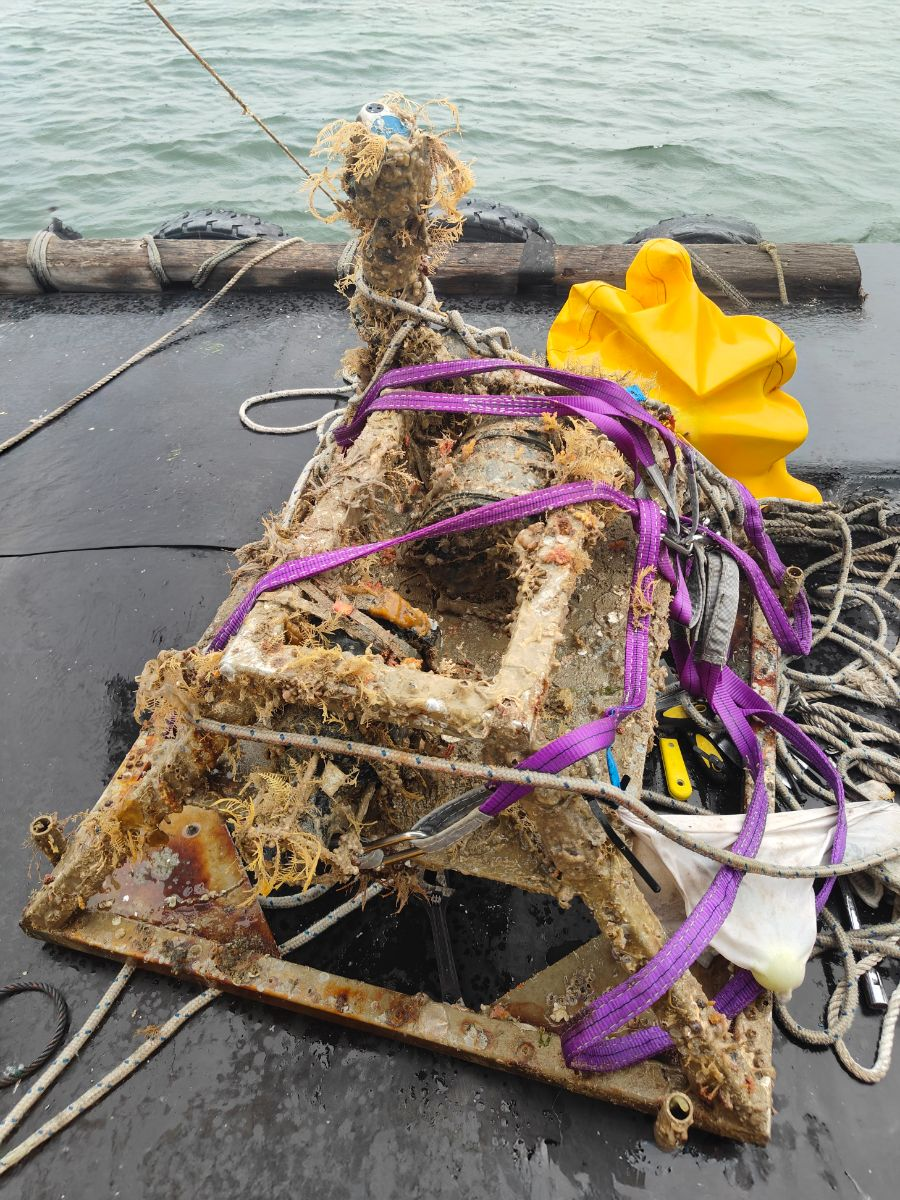
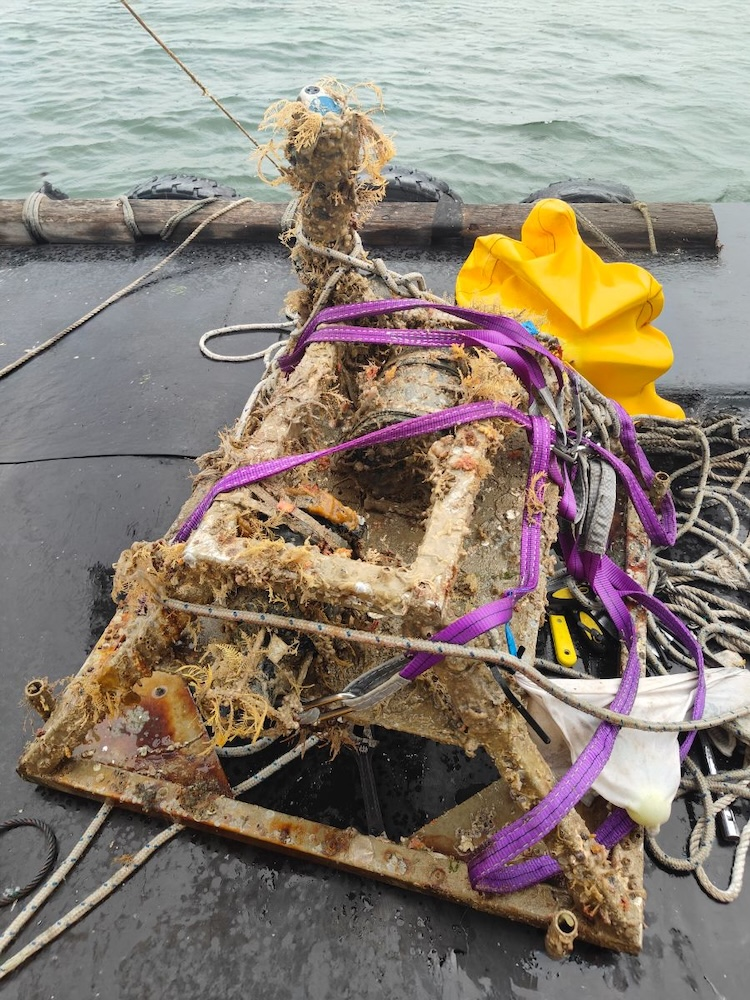
WIP

Changed region(s): [[0.368, 0.217, 0.3987, 0.248]]

diff --git a/_userstories/mesn-adcp-data-retrieval.md b/_userstories/mesn-adcp-data-retrieval.md
@@ -3,8 +3,8 @@ layout: default
 title: From Seabed to Shore
 sub_title: From Seabed to Shore
 excerpt: Subnero deployed SWIS ADCP Edition at the MESN UBN buoy off Pulau Ubin, demonstrating end-to-end wireless ADCP data retrieval from the seabed to the researcher's office. This case study shows how a four month deployment in challenging Singapore waters validated on-demand and on-schedule data delivery with no divers and no cables.
-banner: images/mesn-01.jpg
-thumbnail: images/mesn-01.jpg
+banner: images/mesn-banner.jpg
+thumbnail: images/mesn-thumbnail.jpg
 tag: Case Study
 date: 2026-07-04
 ---
@@ -89,7 +89,7 @@ date: 2026-07-04
       <p>SWIS, powered by UnetStack, ran the communication layer the whole way, a seamless link from the seabed to the user. Instead of handing data off at the buoy, SWIS presented a single continuous connection, so a researcher on shore could work with the seabed instrument as though it were on the bench in front of them.</p>
       <figure>
         <img
-          src="{{site.baseurl}}/images/mesn-architecture.png" alt="End-to-end architecture" />
+          src="{{site.baseurl}}/images/mesn-architecture.jpg" alt="End-to-end architecture" />
         <figcaption class="text-center">End-to-end architecture: the acoustic link carries data from the seabed SWIS modem to the topside SWIS modem on the MESN buoy, and a cellular backhaul delivers it to the researcher&rsquo;s office.</figcaption>
       </figure>
     </div>
